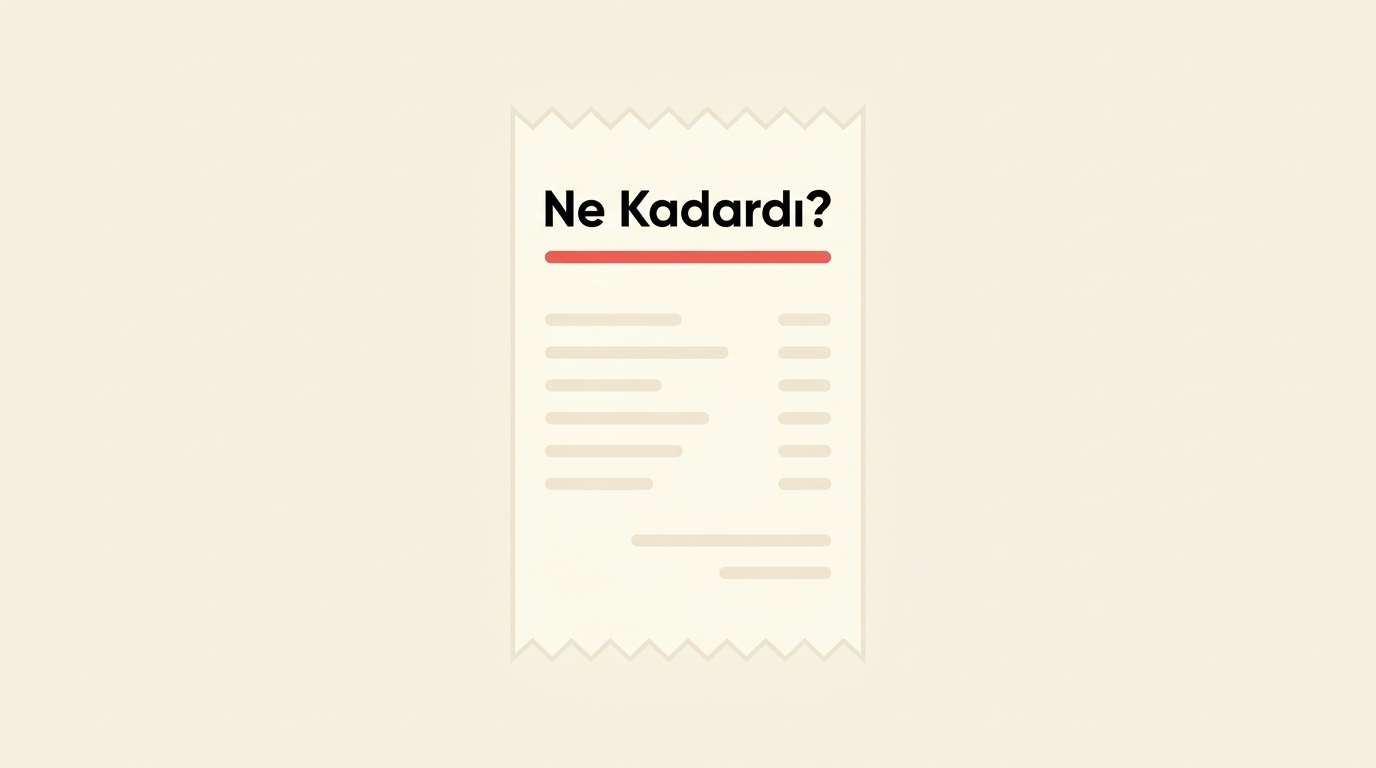
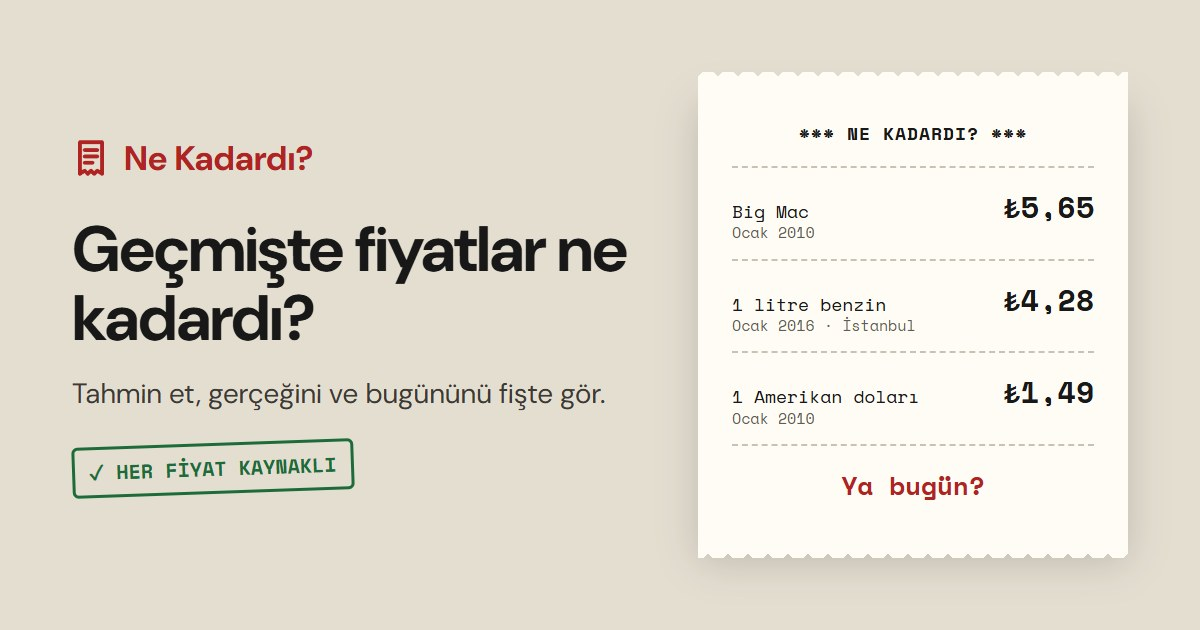
New link preview image with real past prices

diff --git a/index.html b/index.html
@@ -13,8 +13,8 @@
   <meta property="og:title" content="Ne Kadardı? · Fiyat tahmin oyunu">
   <meta property="og:description" content="Geçmiş yıllarda fiyatlar ne kadardı? Tahmin et, gerçek fiyatla karşılaştır ve enflasyonu gör.">
   <meta property="og:image" content="https://murtibad.github.io/ne-kadardi/social.jpg">
-  <meta property="og:image:width" content="1376">
-  <meta property="og:image:height" content="768">
+  <meta property="og:image:width" content="1200">
+  <meta property="og:image:height" content="630">
   <meta property="og:type" content="website">
   <meta name="twitter:card" content="summary_large_image">
   <link rel="preconnect" href="https://fonts.googleapis.com">

diff --git a/sw.js b/sw.js
@@ -3,7 +3,7 @@
 // everywhere yet, so the version is repeated here and tests/version.test.js checks it
 // against package.json. A release bump therefore always changes this file, which makes
 // browsers install the new worker, precache fresh files and drop the old cache.
-const VERSION = '0.97.0';
+const VERSION = '0.97.1';
 const CACHE = `ne-kadardi-v${VERSION}`;
 const FONT_CACHE = 'ne-kadardi-fonts';
 

diff --git a/js/version.js b/js/version.js
@@ -1,2 +1,2 @@
 // Keep in sync with package.json (tests/version.test.js checks it).
-export const VERSION = '0.97.0';
+export const VERSION = '0.97.1';

diff --git a/CHANGELOG.md b/CHANGELOG.md
@@ -2,6 +2,10 @@
 
 All notable changes to this project will be documented in this file.
 
+## [0.97.1] - 2026-10-26
+### Changed
+- New link preview (`social.jpg`, 1200x630): the title, "Tahmin et, gerçeğini ve bugününü fişte gör.", a "HER FİYAT KAYNAKLI" stamp and a receipt with three sourced past prices (Big Mac Ocak 2010 ₺5,65, 1 litre benzin Ocak 2016 ₺4,28, 1 dolar Ocak 2010 ₺1,49) asking "Ya bugün?". Only past values, so it does not go stale. Rendered from HTML with the site's fonts in headless Chrome.
+
 ## [0.97.0] - 2026-10-26
 ### Added
 - `disney-plus`: Disney+ Turkey cheapest monthly plan: 2022-06 34,99 · 2022-12 64,99 · 2024-02 134,99 · 2024-10 164,90 · 2025-09 249,90, each on two news domains (the 164,99 some sites print is a typo: their yearly price is 1.649).
